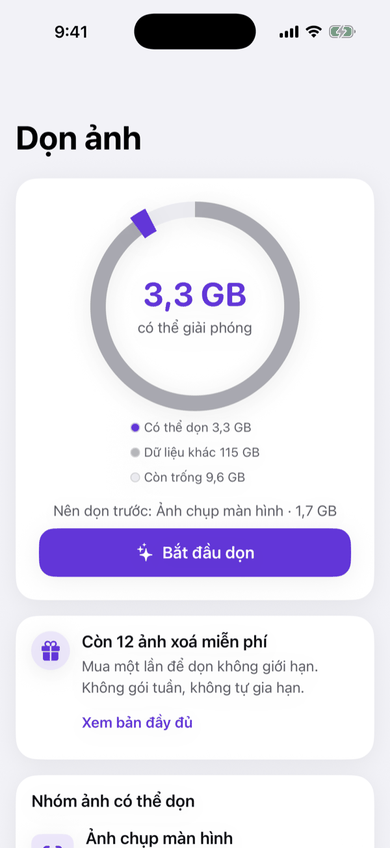
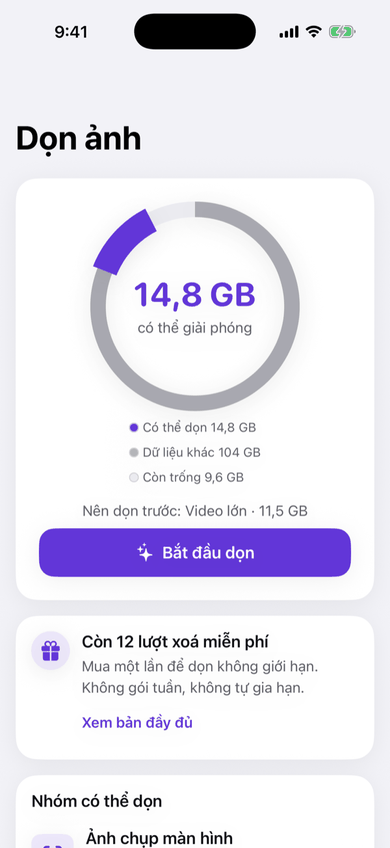
Cleaner: a video's length shares a row with the check mark; the card's date no longer breaks
The previews of c0874d7 at large text showed two things:
- In the review grid, a video's length ("▶ 13:53") grew over the check
  mark in the tile's other corner. They now share one row, so the length
  shrinks (to 60%, as before) instead of running under it. At standard
  sizes the tile looks as it did.
- On a swipe card, "21/06/2026" broke after "202": the date and the size
  stay side by side while they fit, and go one above the other at the
  largest text sizes (ViewThatFits). Photos' cards have the same footer.

README: the cleaner's home screenshot from the c0874d7 previews (14,8 GB,
"Nên dọn trước: Video lớn · 11,5 GB", "Còn 12 lượt xoá miễn phí"),
shrunk to 390 px like the others, and its alt text.

Claude-Session: https://claude.ai/code/session_017SqZFe7MJiZeRp26ra9wFc

diff --git a/ios/IdeaLabKit/Sources/IdeaLabUI/Components/Cleanup.swift b/ios/IdeaLabKit/Sources/IdeaLabUI/Components/Cleanup.swift
@@ -419,15 +419,19 @@ private struct CleanupCard<Content: View>: View {
                             .padding(LabSpacing.sm)
                     }
                 }
-            HStack(spacing: LabSpacing.xs) {
-                Label {
-                    Text(verbatim: date)
-                } icon: {
-                    Image(systemName: "calendar")
+            // Side by side while they fit; at the largest text sizes one
+            // above the other, rather than the date broken mid-number.
+            ViewThatFits(in: .horizontal) {
+                HStack(spacing: LabSpacing.xs) {
+                    takenLabel(date)
+                    Spacer(minLength: LabSpacing.xs)
+                    sizeText
                 }
-                Spacer(minLength: LabSpacing.xs)
-                Text(verbatim: ByteSize.string(item.bytes))
-                    .monospacedDigit()
+                VStack(alignment: .leading, spacing: LabSpacing.xxs) {
+                    takenLabel(date)
+                    sizeText
+                }
+                .frame(maxWidth: .infinity, alignment: .leading)
             }
             .font(.subheadline.weight(.medium))
             .foregroundStyle(theme.secondaryLabel)
@@ -441,6 +445,19 @@ private struct CleanupCard<Content: View>: View {
         .shadow(color: .black.opacity(0.14), radius: 18, x: 0, y: 8)
         .accessibilityElement(children: .ignore)
         .accessibilityLabel(Text(verbatim: CleanupItemText.spoken(item, date: date)))
+    }
+
+    private func takenLabel(_ date: String) -> some View {
+        Label {
+            Text(verbatim: date)
+        } icon: {
+            Image(systemName: "calendar")
+        }
+    }
+
+    private var sizeText: some View {
+        Text(verbatim: ByteSize.string(item.bytes))
+            .monospacedDigit()
     }
 }
 
@@ -555,11 +572,16 @@ public struct ReviewTile<Thumbnail: View>: View {
                 .overlay {
                     if !isMarked { theme.canvas.opacity(0.55) }
                 }
-                .overlay(alignment: .topTrailing) { badge }
-                .overlay(alignment: .topLeading) {
-                    if let duration = item.duration {
-                        VideoLengthBadge(duration: duration, font: .caption2.weight(.semibold))
-                            .padding(LabSpacing.xs)
+                .overlay(alignment: .top) {
+                    // One row, so a video's length never runs under the check
+                    // mark: at the largest text sizes it shrinks instead.
+                    HStack(alignment: .top, spacing: 0) {
+                        if let duration = item.duration {
+                            VideoLengthBadge(duration: duration, font: .caption2.weight(.semibold))
+                                .padding([.top, .leading], LabSpacing.xs)
+                        }
+                        Spacer(minLength: 0)
+                        badge
                     }
                 }
                 .overlay(alignment: .bottomLeading) {

diff --git a/ios/README.md b/ios/README.md
@@ -1055,7 +1055,7 @@ Chụp từ simulator iPhone 17 Pro (iOS 26.5, Xcode 26.6) bằng workflow **iOS
 
 | Dọn ảnh: trang chủ | Vuốt giữ/xoá | Xem lại trước khi xoá | Xong |
 | --- | --- | --- | --- |
-| <img src="docs/screenshots/cleaner-home.light.png" width="200" alt="Trang chủ dọn ảnh: vòng dung lượng, 3,3 GB có thể giải phóng, nên dọn trước ảnh chụp màn hình, còn 12 ảnh xoá miễn phí"> | <img src="docs/screenshots/cleaner-swipe.light.png" width="200" alt="Vuốt giữ hoặc xoá: tiến độ 12/48, thẻ ảnh chụp màn hình với hai thẻ ló phía sau, nút Xoá, Hoàn tác, Giữ"> | <img src="docs/screenshots/cleaner-review.light.png" width="200" alt="Xem lại: 21 ảnh, 23,9 MB, lưới ảnh sẽ xoá có hai ảnh giữ lại, nút mở khoá và nút xoá 12 ảnh đầu tiên"> | <img src="docs/screenshots/cleaner-done.light.png" width="200" alt="Xong: đã dọn 21 ảnh, 23,9 MB, lời giải thích về Đã xoá gần đây và nút mở ứng dụng Ảnh"> |
+| <img src="docs/screenshots/cleaner-home.light.png" width="200" alt="Trang chủ dọn ảnh: vòng dung lượng, 14,8 GB có thể giải phóng, nên dọn trước video lớn (11,5 GB), còn 12 lượt xoá miễn phí"> | <img src="docs/screenshots/cleaner-swipe.light.png" width="200" alt="Vuốt giữ hoặc xoá: tiến độ 12/48, thẻ ảnh chụp màn hình với hai thẻ ló phía sau, nút Xoá, Hoàn tác, Giữ"> | <img src="docs/screenshots/cleaner-review.light.png" width="200" alt="Xem lại: 21 ảnh, 23,9 MB, lưới ảnh sẽ xoá có hai ảnh giữ lại, nút mở khoá và nút xoá 12 ảnh đầu tiên"> | <img src="docs/screenshots/cleaner-done.light.png" width="200" alt="Xong: đã dọn 21 ảnh, 23,9 MB, lời giải thích về Đã xoá gần đây và nút mở ứng dụng Ảnh"> |
 
 | Nhắc thuốc: phía cha mẹ | Phía người con | Cha mẹ, chữ cực lớn (AX-L) | Widget của cha mẹ |
 | --- | --- | --- | --- |
